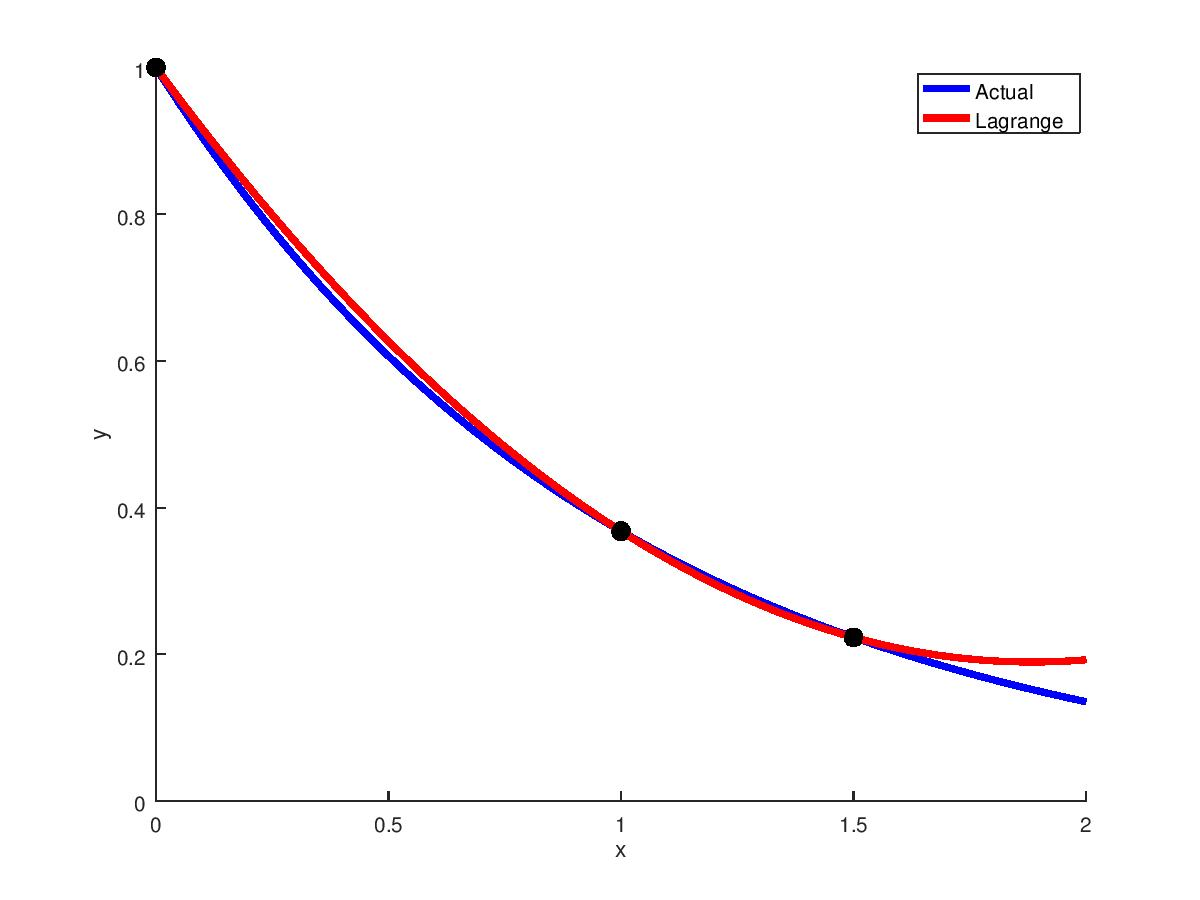
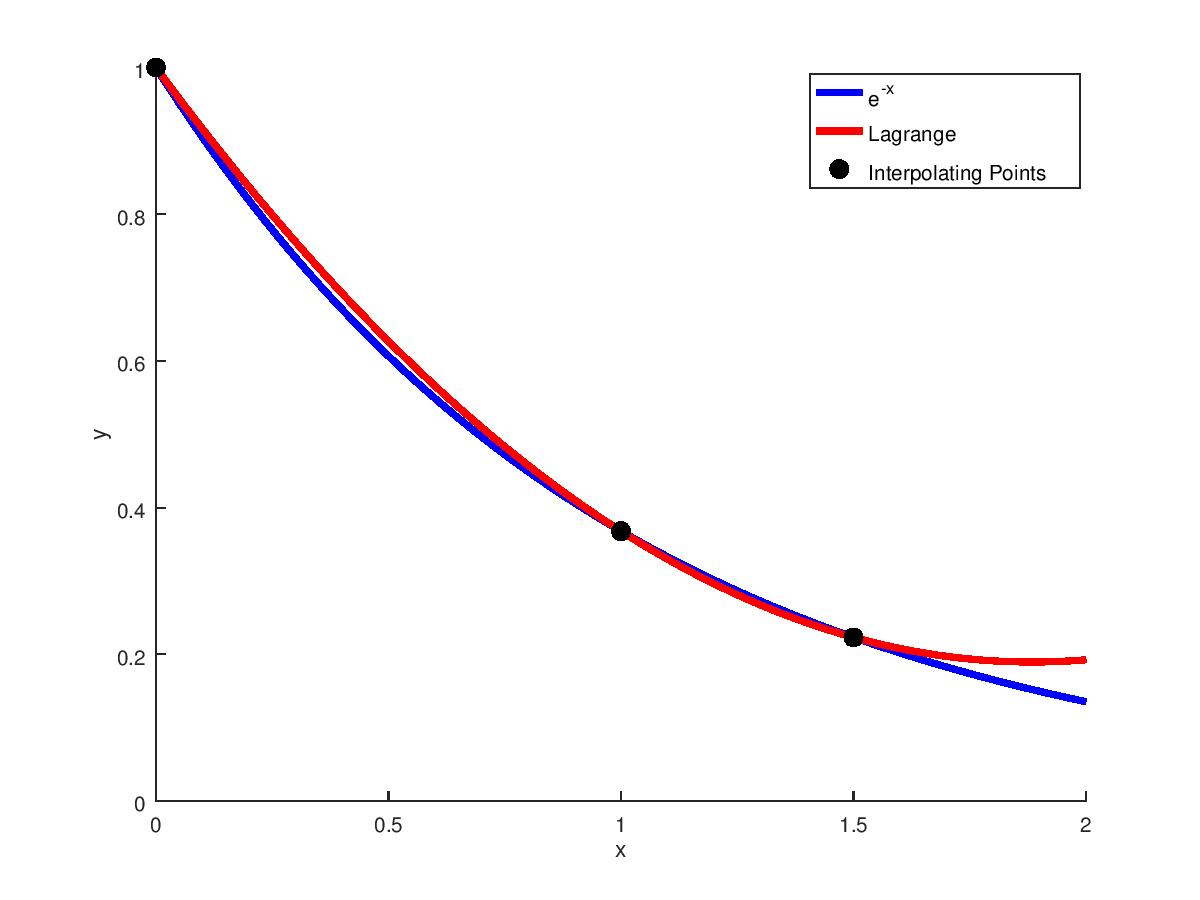
cleaned some stuff up

Changed region(s): [[0.6783, 0.0933, 0.8942, 0.2178]]

diff --git a/hw1/p2.m b/hw1/p2.m
@@ -17,8 +17,7 @@ x = [x0 - 2*h, x0, x0 + h];
 
 % Plot our actual curve, and the points we are interpolating around.
 hold on;
-plot(_x, f(_x), 'b', 'DisplayName', 'Actual', 'LineWidth', 3);
-scatter(x, f(x), 75, 'k', 'filled');
+plot(_x, f(_x), 'b', 'DisplayName', 'e^{-x}', 'LineWidth', 3);
 
 % Next define the components of our interpolating function.
 F0 = f(x0 - 2*h);
@@ -32,6 +31,7 @@ L2 = @(x) (x - x0 + 2 * h) .* (x - x0) .* (1 / (3 * (h .^ 2)));
 % Here is the actual interpolating polynomial.
 P = @(x) F0 * L0(x) + F1 * L1(x) + F2 * L2(x);
 plot(_x, P(_x), 'r', 'DisplayName', 'Lagrange', 'LineWidth', 3);
+scatter(x, f(x), 75, 'k', 'filled', 'DisplayName', 'Interpolating Points');
 
 legend('show');
 xlabel('x');
